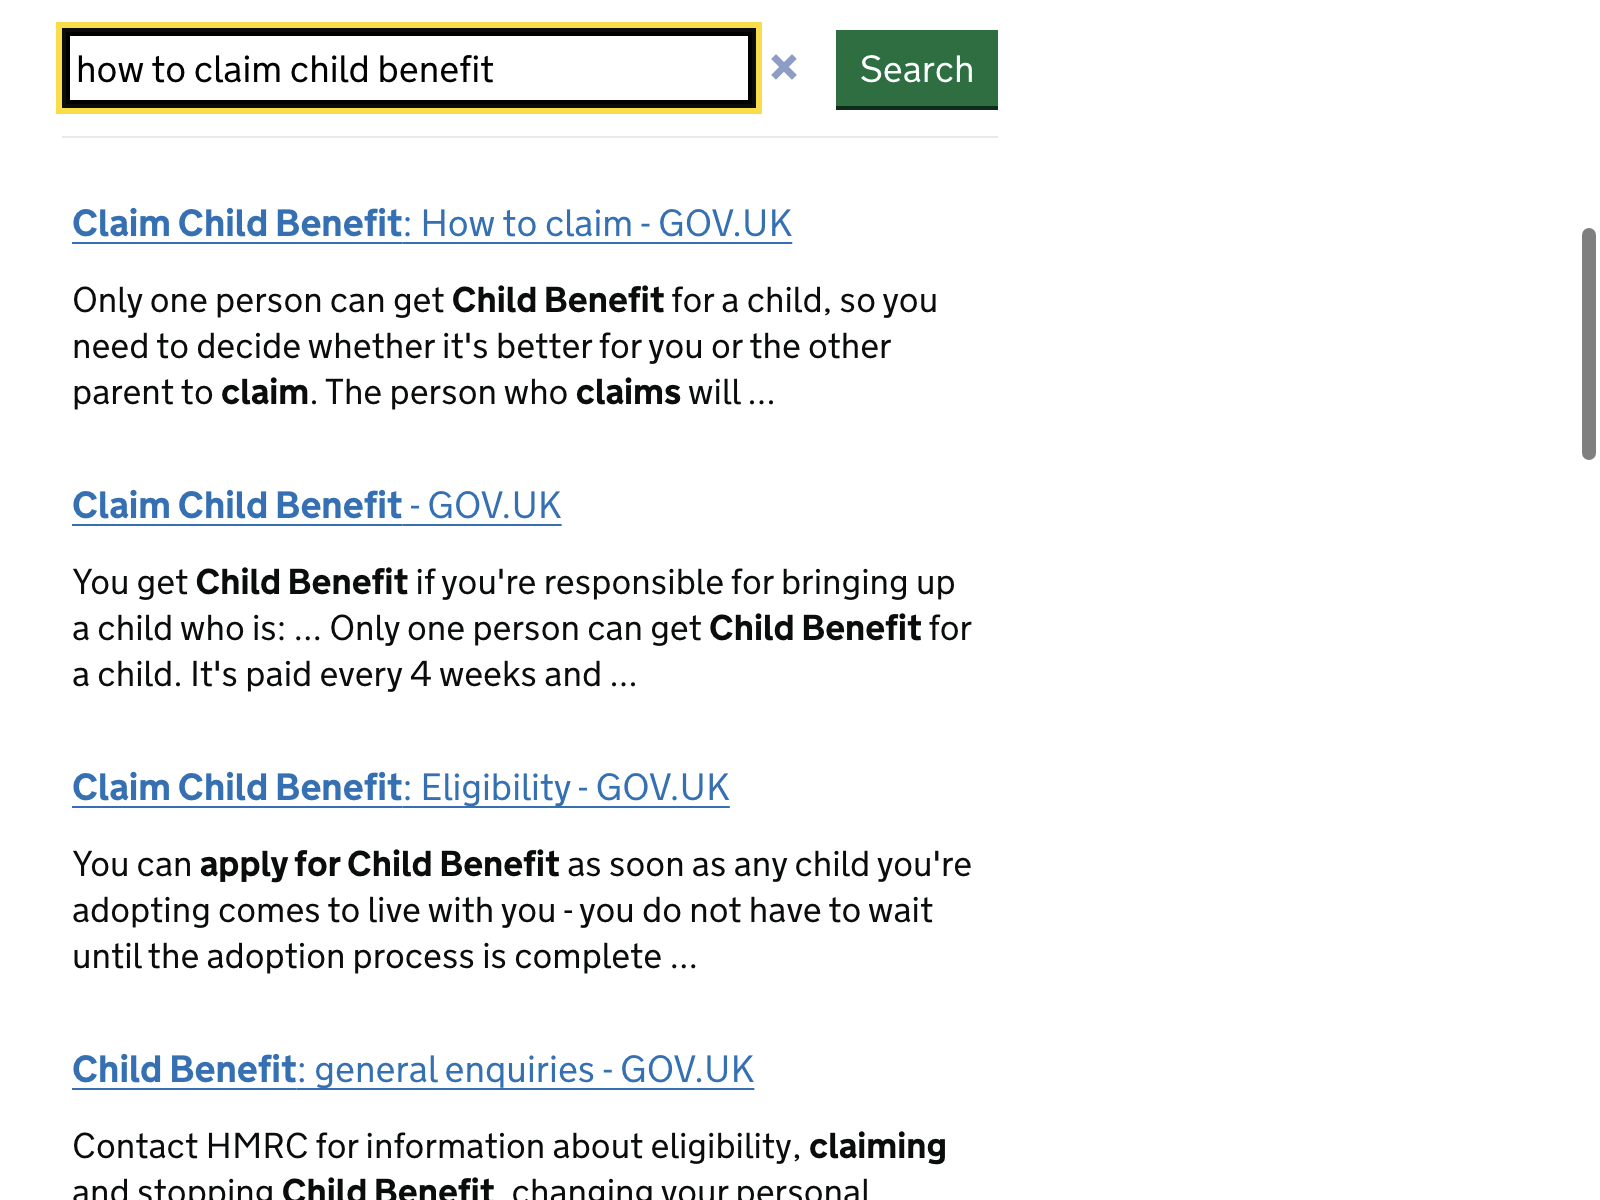
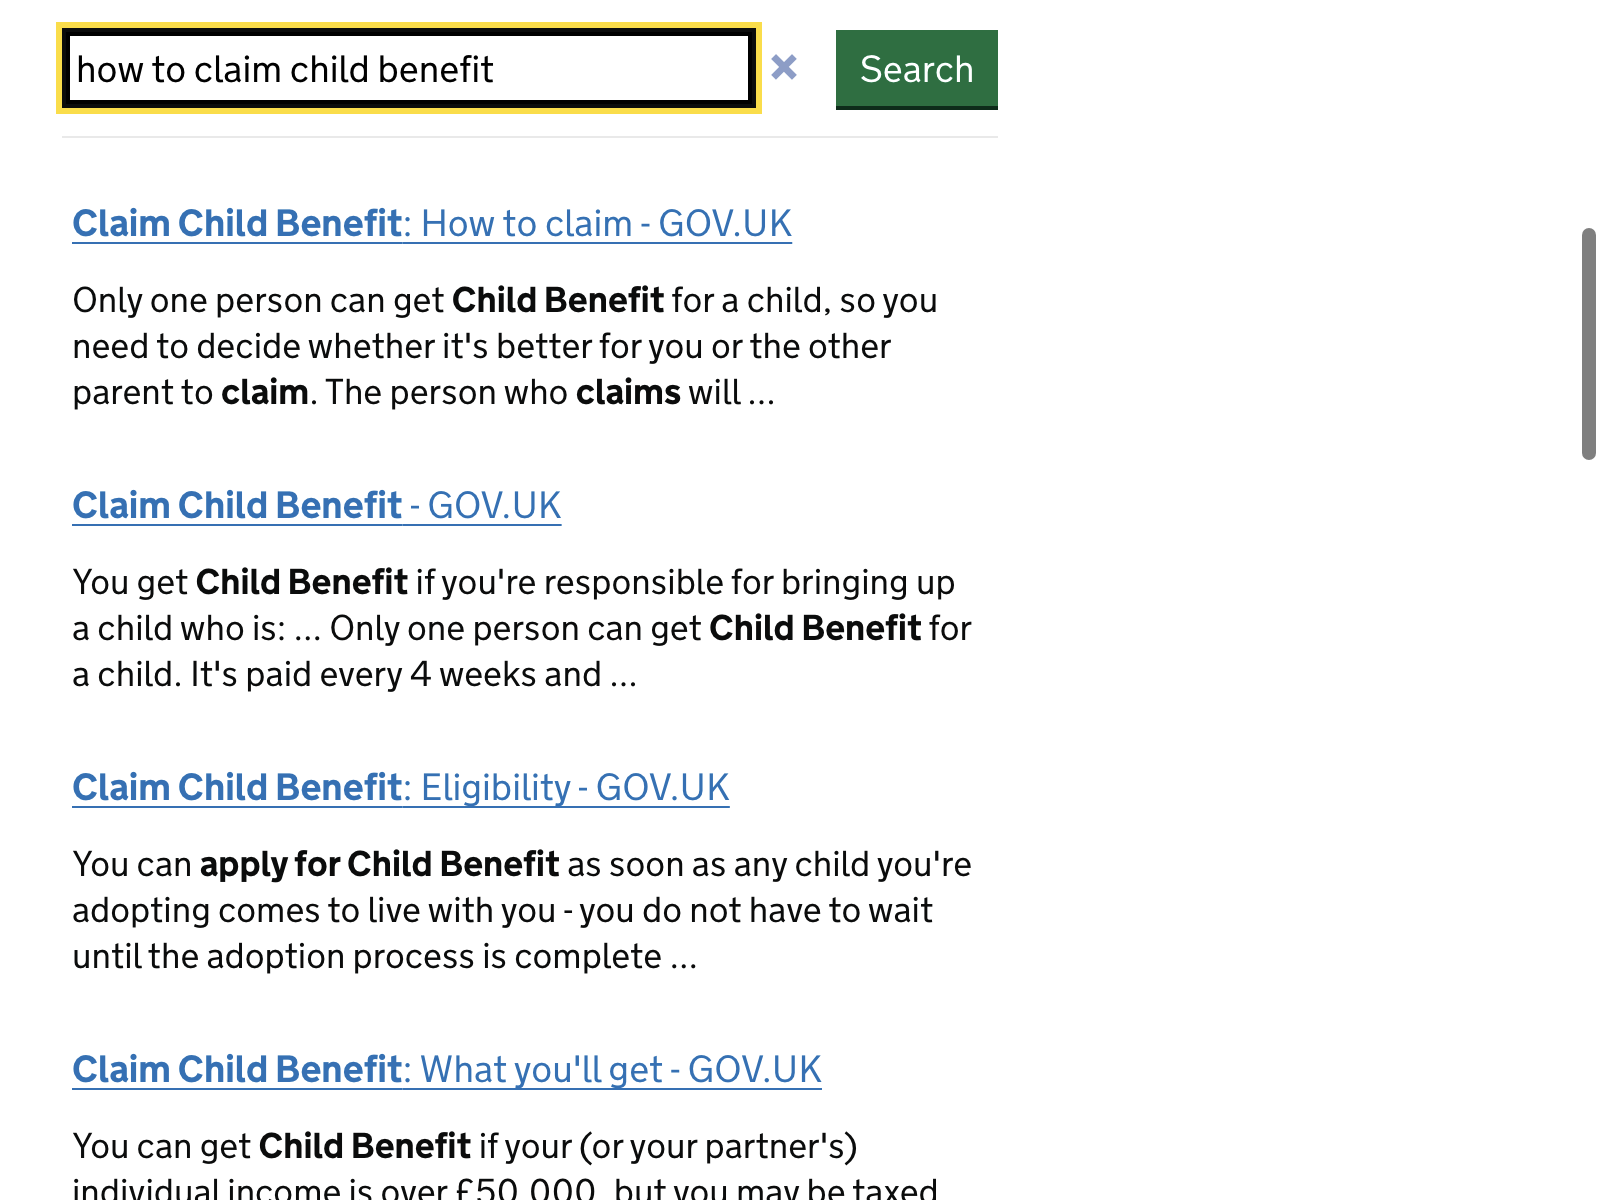
Update and extend the cucumber tests
Adding a basic test to cover the cookies page form functionality.

Note: the screenshot for the search results changed, this is unrelated to this PR work, it is just the results returned a different page. I'm committing this new screenshot hoping it will not change frequently.

Changed region(s): [[0.0312, 0.8633, 0.5938, 1.0]]

diff --git a/features/step_definitions/common.rb b/features/step_definitions/common.rb
@@ -38,6 +38,10 @@ When(/^I click the "([^"]*)" button$/) do |text|
   click_button(text)
 end
 
+When(/^I click the radio button "([^"]*)"$/) do |text|
+  find('label', exact_text: text).click
+end
+
 When(/^I click the search button$/) do
   click_button(class: 'gsc-search-button')
 end
